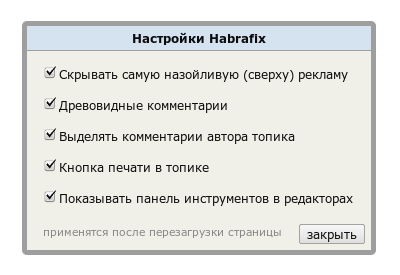
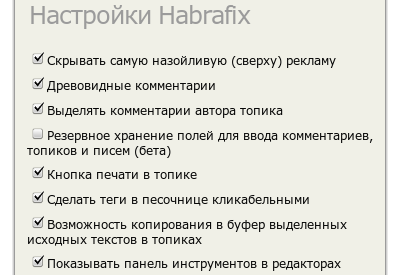
и еще раз приводим в порядок окно настроек

Changed region(s): [[0.03, 0.0, 0.99, 1.0]]

diff --git a/src/css/config.css b/src/css/config.css
@@ -17,9 +17,9 @@
 /* окно настроек */
 #hf_config {
 	position: fixed;
-	left: 30%;
-	top: 30%;
-	width: 40%;
+	left: 25%;
+	top: 15%;
+	width: 50%;
 	height: auto;
 	background-color: #f0f0e7;
 	border: 1px solid #999;
@@ -40,11 +40,11 @@
 		}
 
 	#hf_config ul {
-		margin: 1em 1em 0;
+		margin: 1em;
 		}
 
 		#hf_config ul li {
-			margin-bottom: 1em;
+			margin-bottom: .5em;
 			}
 			
 	#hf_config span {
